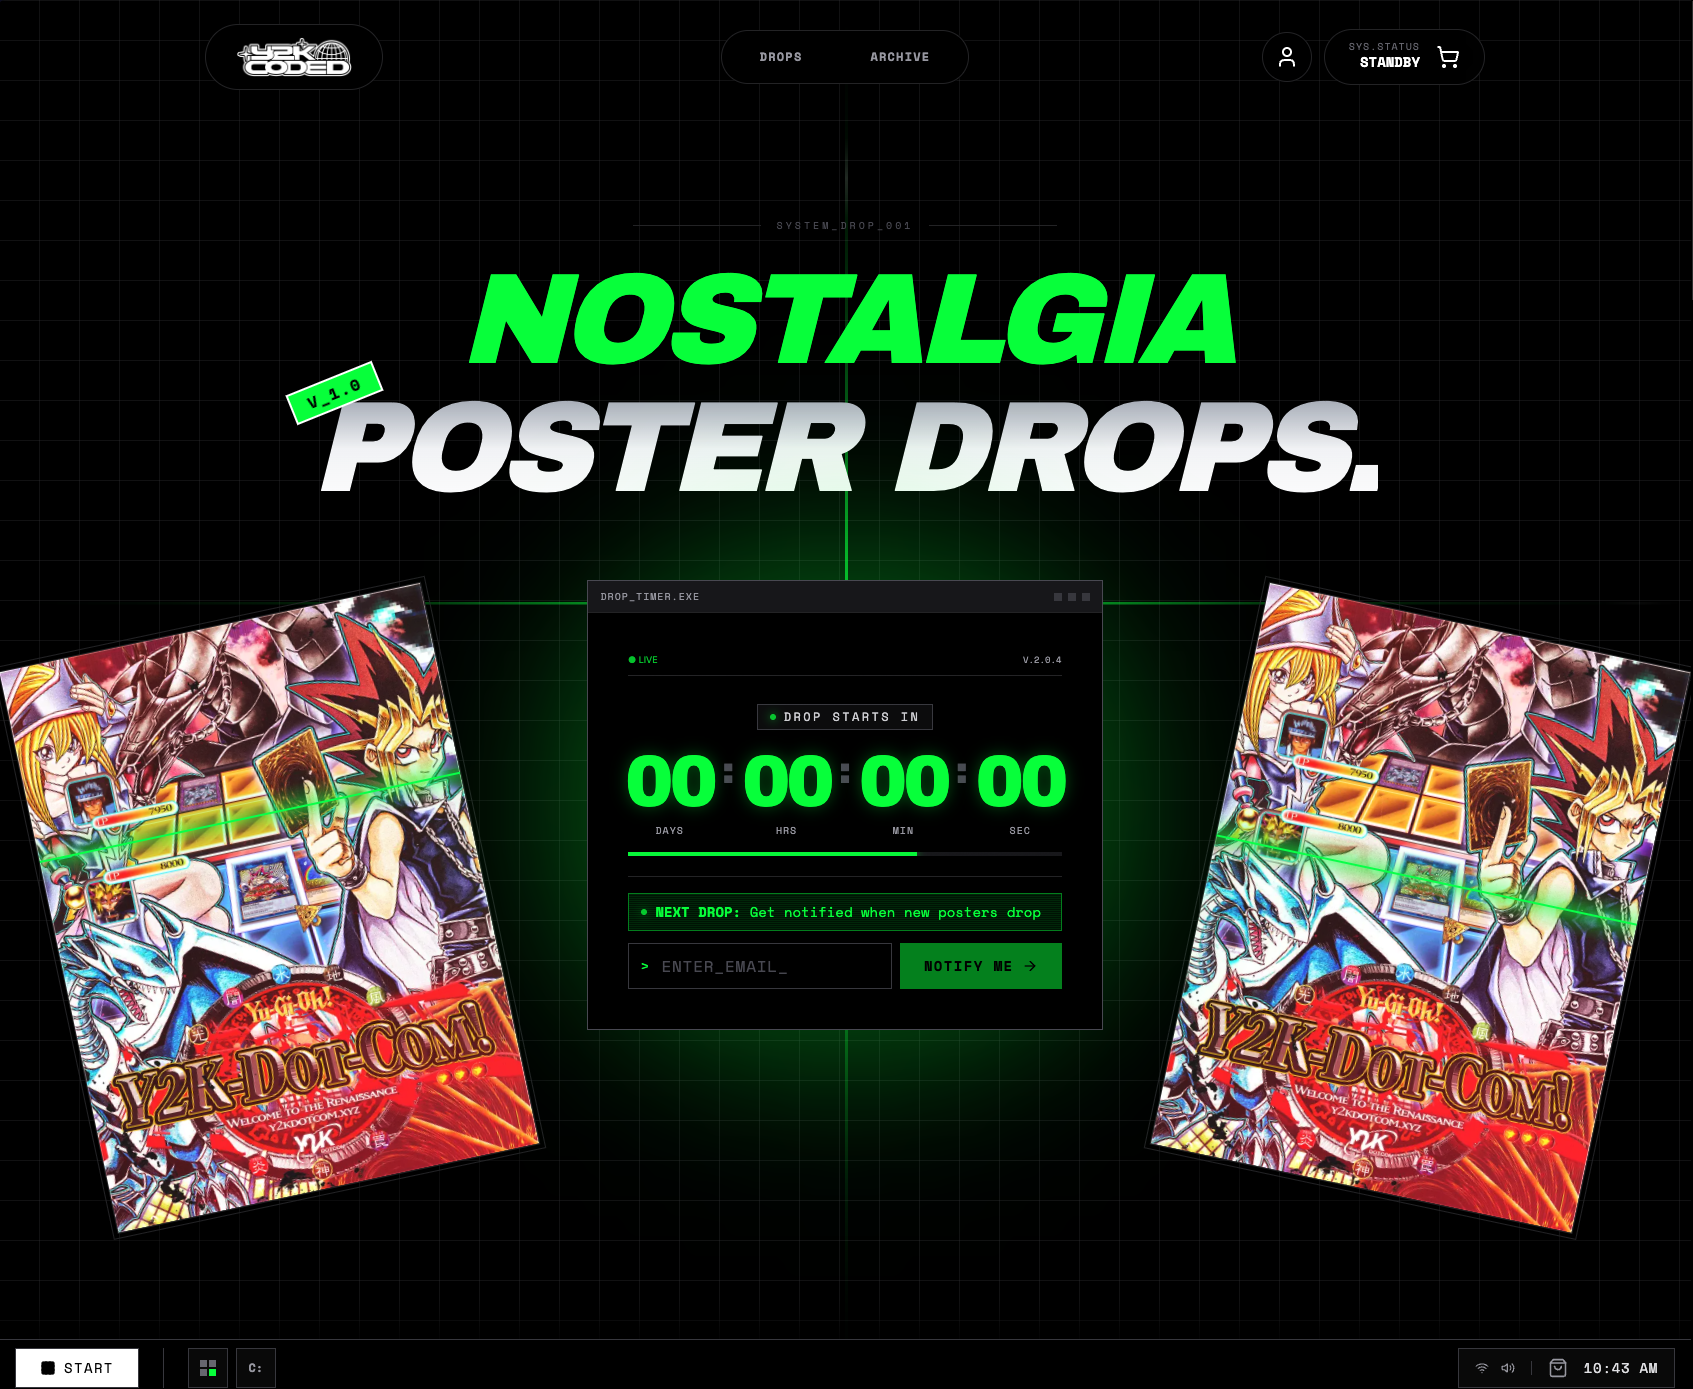
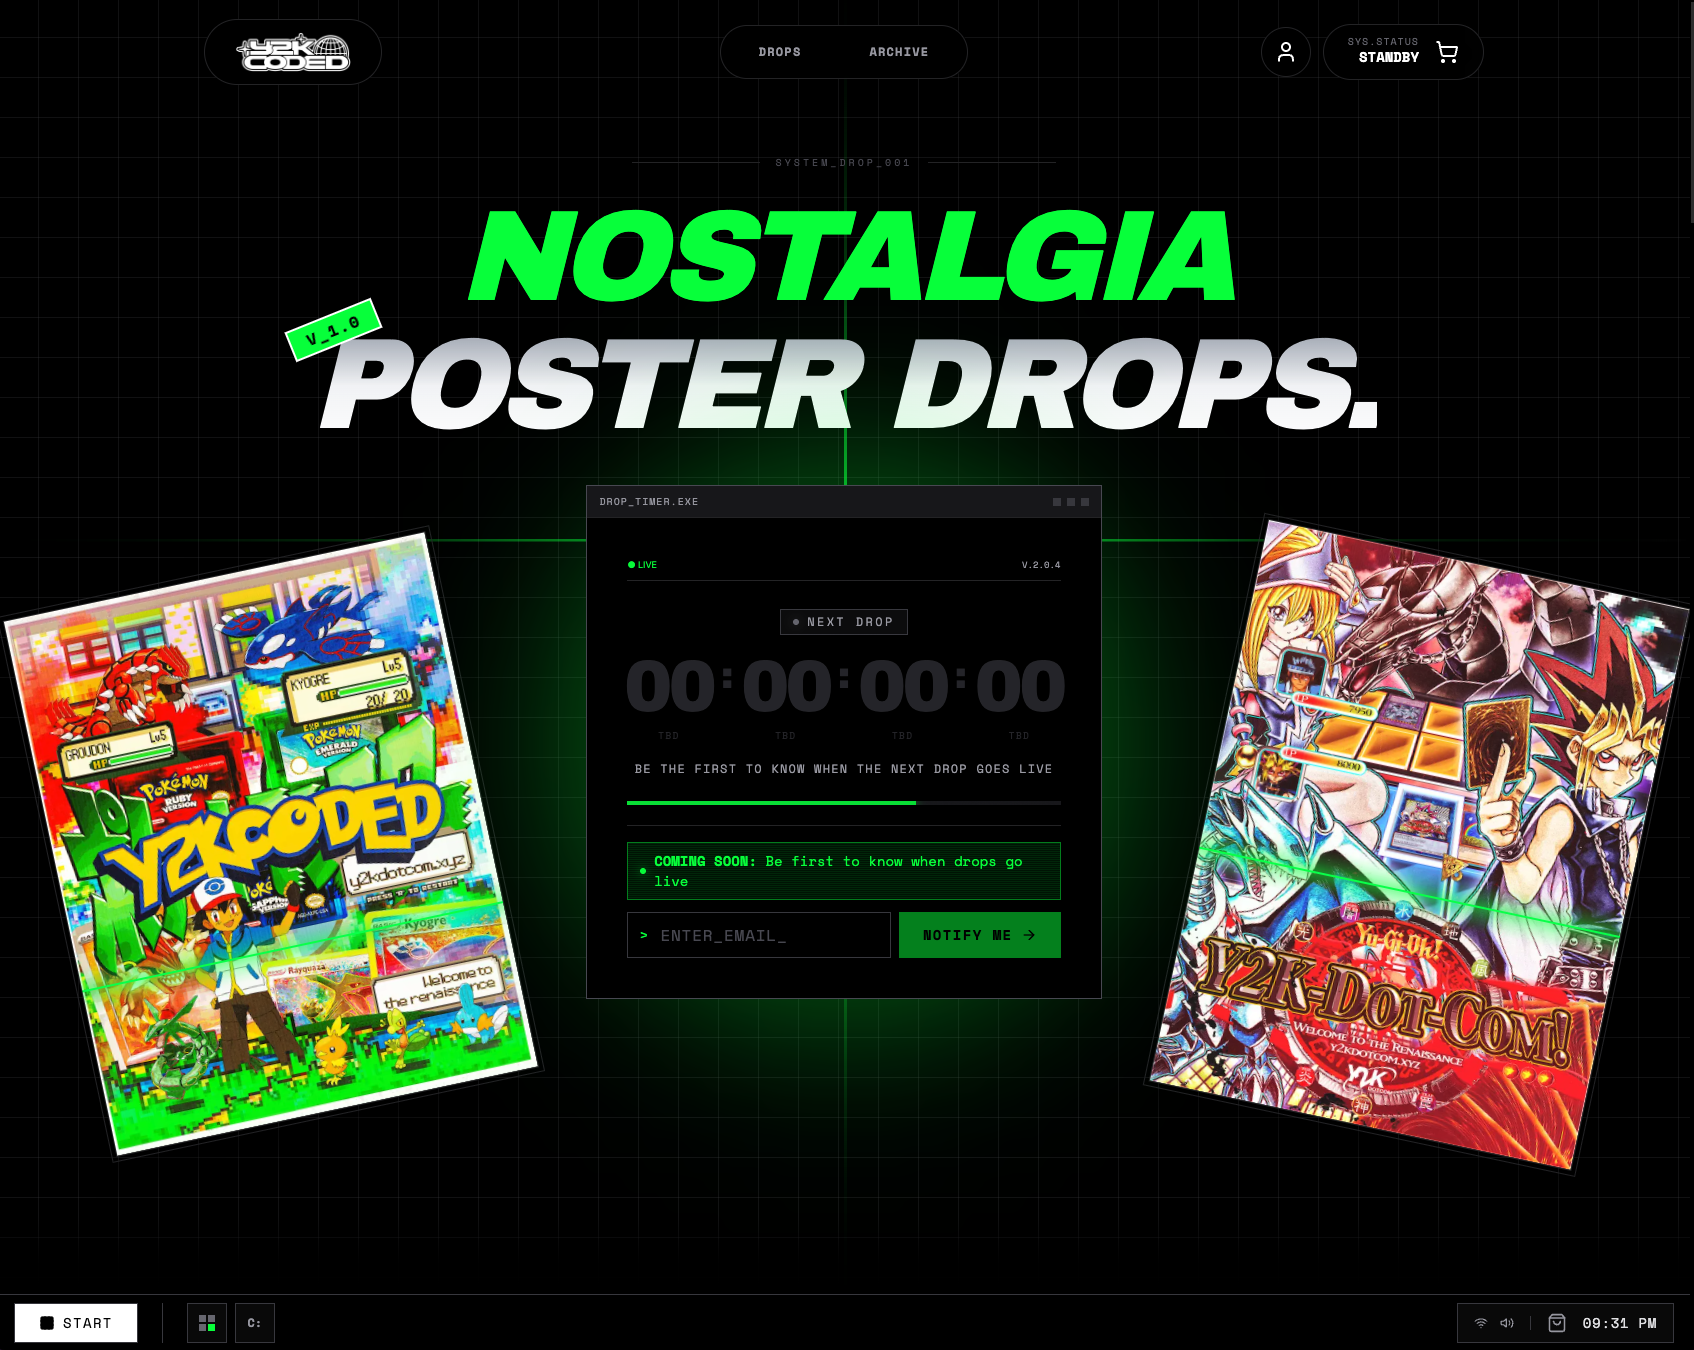
feat: update y2k coded project images

diff --git a/lib/projects.ts b/lib/projects.ts
@@ -98,8 +98,11 @@ export const projects: Project[] = [
       { label: 'Y2KCODED.COM', url: 'https://y2kcoded.com' },
     ],
     images: [
-      { src: '/images/projects/y2k-coded-main.png', width: 1693, height: 1389 },
-      { src: '/images/projects/y2k-coded-archive.png', width: 1707, height: 1394 },
+      { src: '/images/projects/y2k-coded-main.png', width: 1694, height: 1350 },
+      { src: '/images/projects/y2k-coded-poster-details.png', width: 1686, height: 1202 },
+      { src: '/images/projects/y2k-coded-drop-schedule.png', width: 1676, height: 1203 },
+      { src: '/images/projects/y2k-coded-bundle.png', width: 1666, height: 1270 },
+      { src: '/images/projects/y2k-coded-archive.png', width: 1634, height: 1250 },
     ],
   },
 ]

diff --git a/components/sections/Projects.tsx b/components/sections/Projects.tsx
@@ -24,6 +24,9 @@ const imageAnnotations: Record<string, string[][]> = {
   ],
   'y2k-coded': [
     ['DROP PAGE', 'COUNTDOWN TIMER', 'NOSTALGIA VIBES'],
+    ['POSTER DETAILS', 'FULL PRINT', 'ARTWORK VIEW'],
+    ['DROP SCHEDULE', 'CALENDAR', 'UPCOMING DROPS'],
+    ['BUNDLE', 'COLLECTOR SET', 'LIMITED EDITION'],
     ['ARCHIVE', 'PAST DROPS', 'SOLD OUT'],
   ],
 }
